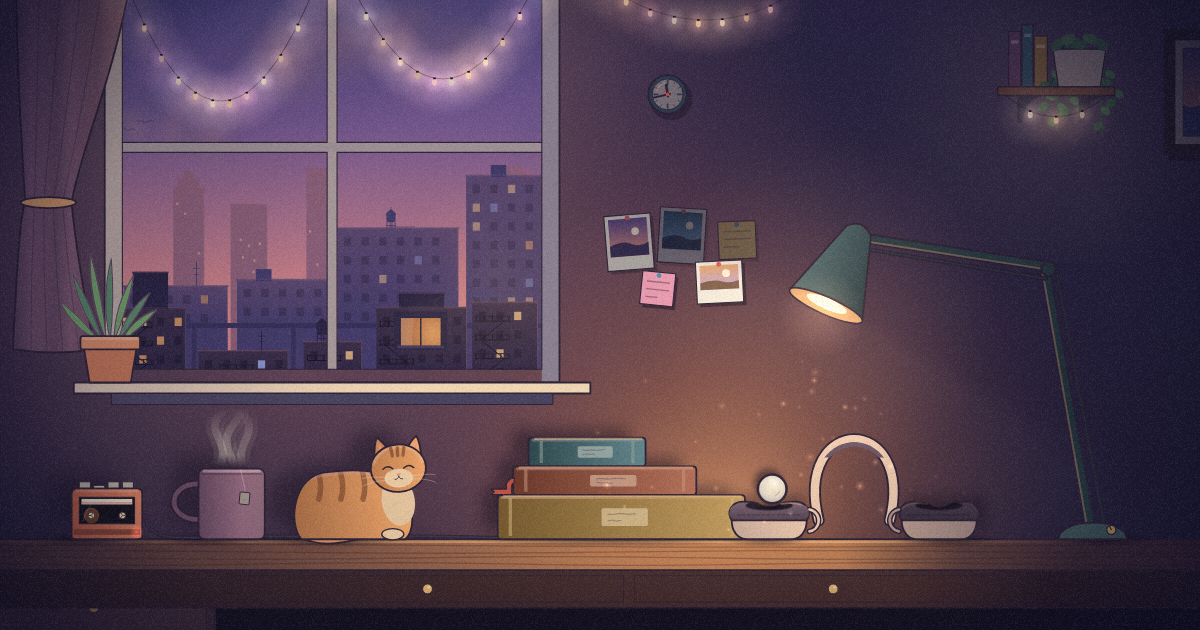
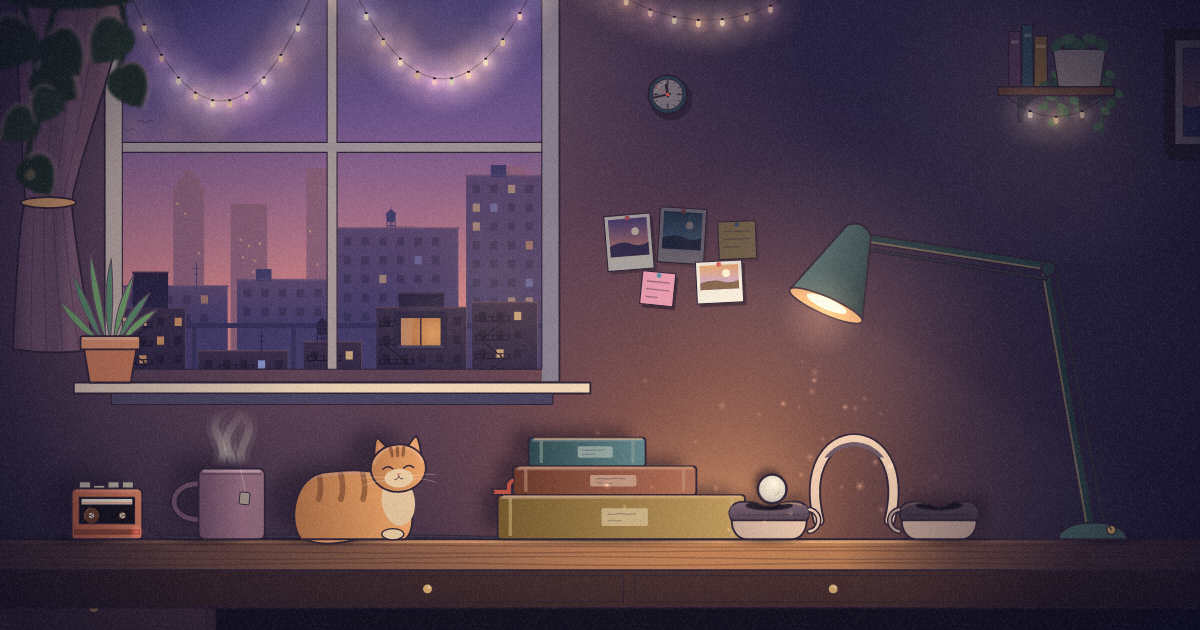
Soft Lamp: a pothos hung near the camera
From the cold review: nothing in the picture was nearer than the wall. A
pothos hangs into the top left corner from just above the frame, out of
focus, dark, edged by the window's light and warmed by the fairy lights,
stirring in the draught; it keeps to the corner of whatever the camera looks
at and drifts a little against the room, so the room behind it is deep.

Changed region(s): [[0.0, 0.0, 0.1233, 0.3016]]

diff --git a/apps/rube/src/shows/versions/soft-lamp/lamp/fore.ts b/apps/rube/src/shows/versions/soft-lamp/lamp/fore.ts
@@ -1,0 +1,127 @@
+import { mixHex } from '../../../../parts'
+import { rgba, viewOf } from './canvas'
+import { draughtAt, fairyGlowAt } from './decor'
+import { lensIn } from './lens'
+import { smooth } from './music'
+import { rimAt } from './rim'
+import { hash, lampAt } from './world'
+
+/**
+ * What is nearest the camera: a pothos trailing down into the top left of the picture from a pot hung just above it,
+ * close enough to be out of focus. A soft dark frame for the room, its leaves edged by the window's light and, warmer,
+ * the fairy lights', stirring in the draught off the glass as the curtain does. It hangs by the one at the desk, so it
+ * keeps to the corner of whatever the camera looks at, drifting against the room a little as the camera moves (it is
+ * nearer than anything), which is what makes the room behind it deep.
+ */
+
+type Ctx = CanvasRenderingContext2D
+
+/** The vines: where each hangs from (across the corner, a share of the frame's height), how long, which way it bows. */
+const VINES: [number, number, number][] = [
+  [0.04, 0.3, 0.5],
+  [0.12, 0.2, -0.5],
+  [0.19, 0.16, 0.3],
+]
+/** The share of the frame's height a leaf is, nearest the camera: large, as what is close is. */
+const LEAF = 0.1
+
+let pad: HTMLCanvasElement | null = null
+const PAD_W = 96
+const PAD_H = 96
+/** The corner the plant is drawn into, in shares of the frame's height. */
+const BOX = { w: 0.4, h: 0.4 }
+
+/** A pothos leaf: a heart, its point down, from its stalk at the origin, `s` long. */
+function leaf(g: Ctx, s: number): void {
+  g.beginPath()
+  g.moveTo(0, 0)
+  g.bezierCurveTo(-s * 0.55, -s * 0.08, -s * 0.62, s * 0.55, 0, s)
+  g.bezierCurveTo(s * 0.62, s * 0.55, s * 0.55, -s * 0.08, 0, 0)
+  g.closePath()
+}
+
+/** The plant, over the room and under the vignette and the grain. */
+export function foreground(ctx: Ctx, t: number): void {
+  if (typeof document === 'undefined') return
+  const v = viewOf(ctx)
+  const lens = lensIn(ctx)
+  // Not in the stage's overview of the whole room: it is the camera's, not the room's.
+  const shown = 1 - smooth(lens.size, 7.4, 8.6)
+  if (shown < 0.01) return
+  // The scale: the height of a 16:9 frame of what is shown (a phone held upright sees taller, not nearer).
+  const S = lens.size
+  // In the top left corner, a little against the room as the camera moves across it (nearer than anything).
+  const ox = v.x0 - 0.015 * S - Math.max(-0.08 * S, Math.min(0.08 * S, 0.12 * (lens.x - 0.91)))
+  const oy = v.y0
+  pad ??= Object.assign(document.createElement('canvas'), { width: PAD_W, height: PAD_H })
+  const g = pad.getContext('2d') as Ctx
+  g.setTransform(1, 0, 0, 1, 0, 0)
+  g.clearRect(0, 0, PAD_W, PAD_H)
+  // Drawn in shares of the frame's height, into the small canvas, so laying it back large softens it: out of focus.
+  g.setTransform(PAD_W / BOX.w, 0, 0, PAD_H / BOX.h, 0, 0)
+  const rim = rimAt(t)
+  const glow = fairyGlowAt(t)
+  const lamp = lampAt(t)
+  const dark = mixHex('#17221D', '#26382C', 0.35 * lamp)
+  const dark2 = mixHex('#1B2A22', '#2E4434', 0.35 * lamp)
+  const blow = draughtAt(t)
+  for (const [i, [x0, len, bow]] of VINES.entries()) {
+    // Each swings from where it hangs, slowly, on the draught, each a little out of step.
+    const sway = 0.05 * Math.sin(t * (0.33 + 0.07 * i) + i * 1.7) + 0.6 * blow * (0.5 + 0.5 * Math.sin(t * 0.4 + i))
+    const pt = (u: number) => {
+      const a = sway * u * u
+      const bx = bow * 0.06 * Math.sin(Math.PI * u)
+      return { x: x0 + bx + Math.sin(a) * len * u, y: -0.03 + Math.cos(a) * len * u }
+    }
+    g.beginPath()
+    for (let k = 0; k <= 24; k++) {
+      const p = pt(k / 24)
+      if (k === 0) g.moveTo(p.x, p.y)
+      else g.lineTo(p.x, p.y)
+    }
+    g.strokeStyle = dark
+    g.lineWidth = 0.009
+    g.stroke()
+    // The leaves along it, alternating side to side, smaller toward its tip.
+    const n = Math.max(2, Math.round(len / 0.085))
+    for (let k = 1; k <= n; k++) {
+      const u = k / (n + 0.4)
+      const p = pt(u)
+      const q = pt(Math.min(1, u + 0.02))
+      const along = Math.atan2(q.y - p.y, q.x - p.x) - Math.PI / 2
+      const side = (k + i) % 2 ? 1 : -1
+      const s = LEAF * (1 - 0.4 * u) * (0.85 + 0.3 * hash(i, k, 501))
+      g.save()
+      g.translate(p.x, p.y)
+      g.rotate(along + side * (0.75 + 0.25 * hash(i, k, 502)))
+      leaf(g, s)
+      g.fillStyle = (k + i) % 3 ? dark : dark2
+      g.fill()
+      // The window's light along its upper edge, cool; and here and there the fairy lights, warm.
+      g.strokeStyle = rgba(rim.color, 0.5 * rim.a)
+      g.lineWidth = s * 0.1
+      g.beginPath()
+      g.moveTo(0, 0)
+      g.bezierCurveTo(-s * 0.55 * side, -s * 0.08, -s * 0.62 * side, s * 0.55, 0, s)
+      g.stroke()
+      if (hash(i, k, 503) < 0.3 && glow > 0.05) {
+        g.fillStyle = rgba('#FFC890', 0.35 * glow)
+        g.beginPath()
+        g.arc(side * s * 0.15, s * 0.35, s * 0.12, 0, Math.PI * 2)
+        g.fill()
+      }
+      g.restore()
+    }
+  }
+  // The pot's foot, just showing at the top edge, and its cords.
+  g.fillStyle = dark
+  g.beginPath()
+  g.ellipse(0.12, -0.03, 0.14, 0.045, 0, 0, Math.PI)
+  g.fill()
+  ctx.save()
+  ctx.globalAlpha = 0.96 * shown
+  ctx.imageSmoothingEnabled = true
+  ctx.imageSmoothingQuality = 'high'
+  ctx.drawImage(pad, ox, oy, BOX.w * S, BOX.h * S)
+  ctx.restore()
+}

diff --git a/apps/rube/src/shows/versions/soft-lamp/lamp/scene.ts b/apps/rube/src/shows/versions/soft-lamp/lamp/scene.ts
@@ -14,6 +14,7 @@ import { moth } from './moth'
 import { rimAt, rimLine } from './rim'
 import { reflection } from './reflection'
 import { light } from './light'
+import { foreground } from './fore'
 import { cable, walkman } from './walkman'
 import { rgba, viewOf } from './canvas'
 import { flashRoom, night } from './sky'
@@ -993,6 +994,8 @@ export const things = scenery<null>(
     bloom(ctx, c.t)
     motes(ctx, c.t)
     flashRoom(ctx, c.t)
+    // Nearest of all, out of focus: the pothos hanging into the corner.
+    foreground(ctx, c.t)
     vignette(ctx)
     // Under each track's now-playing line (not the title or the credits, which stand on the dark wall).
     for (const card of titlesAt(c.t)) if (card.names.length === 1 && Array.isArray(card.names[0])) scrim(ctx, card.light, card.at, camera(c.t).cells)

diff --git a/apps/rube/src/shows/versions/soft-lamp/SOFTLAMP.md b/apps/rube/src/shows/versions/soft-lamp/SOFTLAMP.md
@@ -1318,8 +1318,25 @@ the desk, seen from behind) would undo the show's point of view, whose hand is t
 Not taken: the kitten "cropped in half" in the moving take (it is whole there, near the frame's edge); cast shadows
 (they are drawn; a lamp above a desk throws most of them onto the desk, out of sight).
 
+### The seventy-seventh pass: something near
+
+The cold review's second point stood: every layer of the picture was at the wall or past it, nothing near, so the eye
+had nowhere to rest in front of the room.
+
+213. **A pothos hung near the camera** (`lamp/fore.ts`). From a pot just above the frame, three short vines of large
+     leaves hang into the top left corner, over the curtain: out of focus (drawn small and laid back large, so soft at
+     any size), dark, edged along their tops by the window's light and here and there warmed by the fairy lights, and
+     stirring in the draught off the glass as the curtain does. It hangs by the one at the desk, so it keeps to the
+     corner of whatever the camera looks at, drifting a little against the room as the camera moves, and in the still
+     take as it drifts: the nearest thing, which makes the room behind it deep. Not in the stage's overview of the whole
+     room; against the ceiling on a phone held upright it all but disappears, which is right.
+214. **Fixed on the way.** The first plant was five long vines of small sharp leaves that reached the sill's plant and
+     crossed the window's sky; close things are few, large and soft, and it keeps to the curtain now.
+
 ## Judgment calls for Stephen
 
+- **The near pothos.** A framing device, the one thing nearer than the room; it is one call (`foreground`, in
+  `scene.ts`) and could go.
 - **The light.** How dark the room falls away from its lights is two colours (`ambientAt`, `lamp/light.ts`, the
   dusk's and the night's); how far the window's light reaches is one number (`windowShare`).
 - **The snow.** The night's second turn: rain to snow to a white city under the moon. It is the largest change to the
